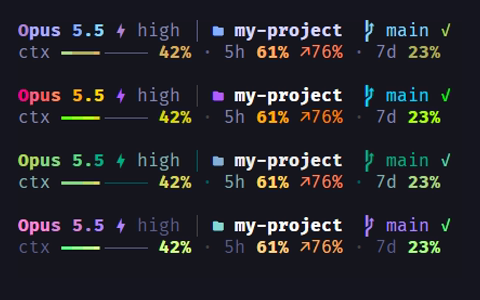
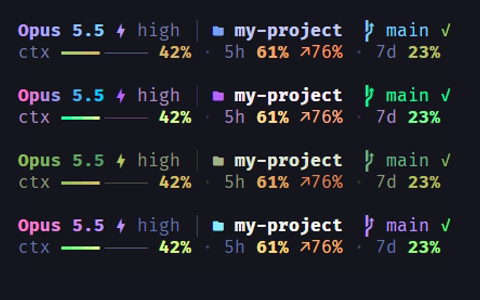
docs: show the new theme list in the readme and demo
The README image used Miami and Prairie, now removed; it shows
Vaporwave and Foret instead, and the demo filters by family. The
theme count is 40.

diff --git a/README.md b/README.md
@@ -1,8 +1,8 @@
 <div align="center">
 
-<img src="docs/banniere.svg" alt="agentline: the Claude Code statusline, 49 themes, one binary" width="760">
+<img src="docs/banniere.svg" alt="agentline: the Claude Code statusline, 40 themes, one binary" width="760">
 
-Model, Git, PR, context and quotas on two lines, in 49 themes: one by default, one per project, one per branch.
+Model, Git, PR, context and quotas on two lines, in 40 themes: one by default, one per project, one per branch.
 
 [![CI](https://img.shields.io/github/actions/workflow/status/adrien-ln/agentline/ci.yml?branch=main&label=CI&style=flat-square&labelColor=1a1b26)](https://github.com/adrien-ln/agentline/actions/workflows/ci.yml)
 [![Latest release](https://img.shields.io/github/v/release/adrien-ln/agentline?style=flat-square&color=7dcfff&labelColor=1a1b26)](https://github.com/adrien-ln/agentline/releases/latest)
@@ -70,7 +70,7 @@ agentline help     # every command
 ```
 
 <div align="center">
-<img src="docs/demo/statusline.png" alt="The statusline in the Tokyo Night, Miami, Prairie and Dracula themes" width="480">
+<img src="docs/demo/statusline.png" alt="The statusline in the Tokyo Night, Vaporwave, Forêt and Dracula themes" width="480">
 </div>
 
 ## Why agentline
@@ -89,7 +89,7 @@ Compared with [ccstatusline](https://github.com/sirmalloc/ccstatusline), the mos
 | Time per render | about 50 ms (measured above) | 1.1 s with `npx`, 0.2 to 0.6 s with `bunx` (from its README) |
 | Network | none | its usage and Claude status widgets call online services |
 | Tools | Claude Code, Antigravity CLI, Copilot CLI | Claude Code |
-| Customization | 49 themes, per project or branch; items shown, hidden and moved with `agentline style` | many more widgets (Jujutsu, CI status, cache timer, extra usage…), Powerline, gradients, any number of lines |
+| Customization | 40 themes (popular, basic and original), per project or branch; items shown, hidden and moved with `agentline style` | many more widgets (Jujutsu, CI status, cache timer, extra usage…), Powerline, gradients, any number of lines |
 
 If you want every widget and Powerline, ccstatusline does more. If you want a fast, offline statusline that follows your projects and branches, that is what agentline is for.
 
